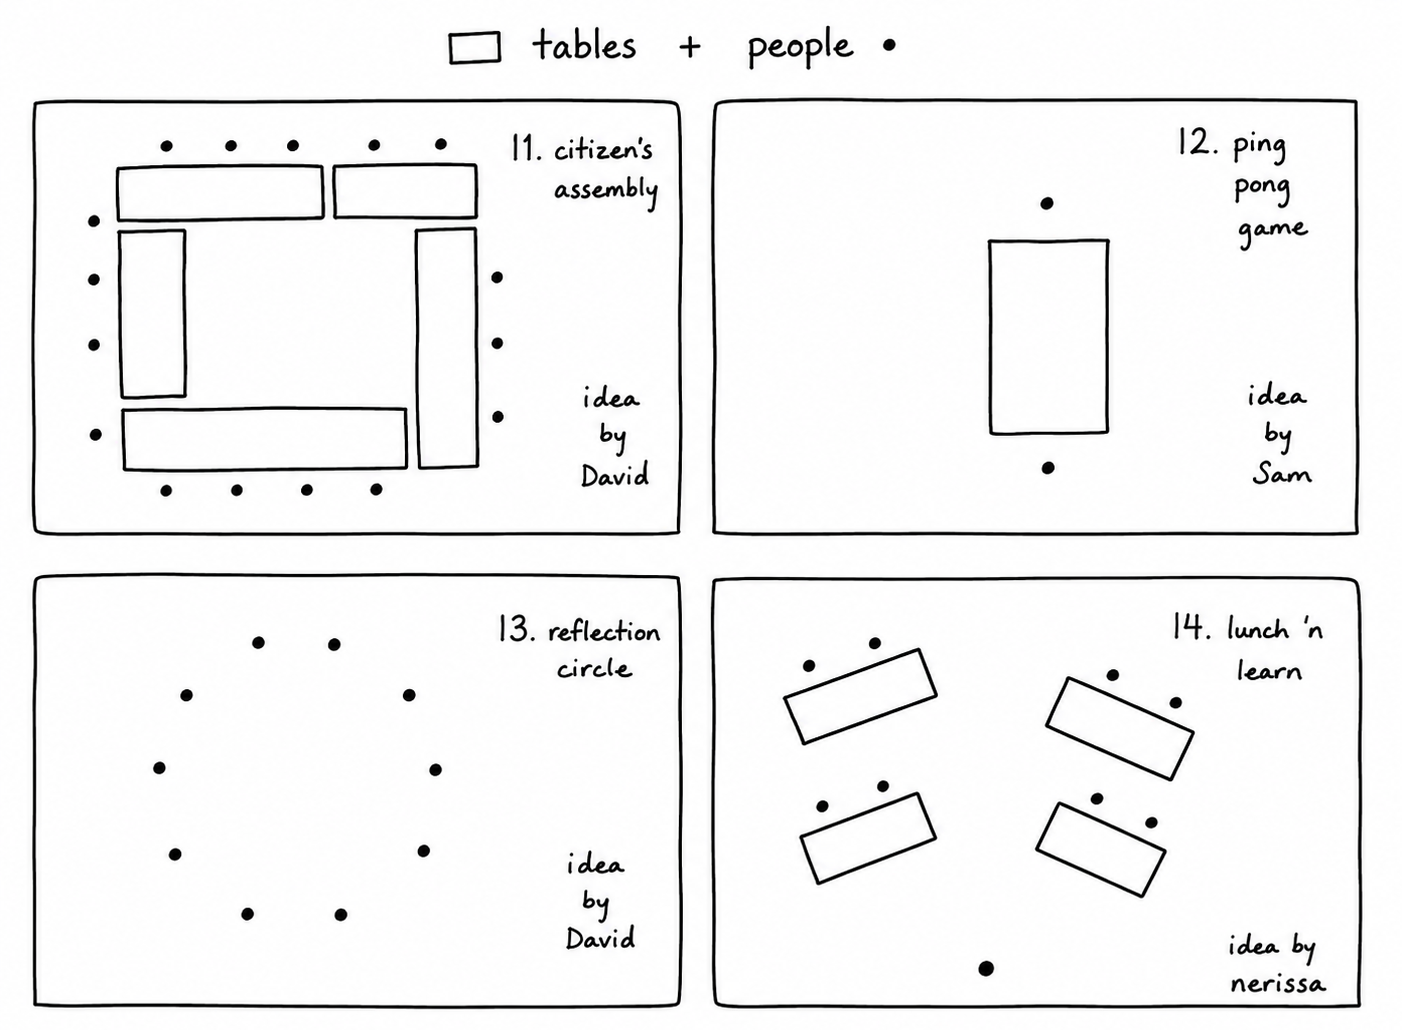
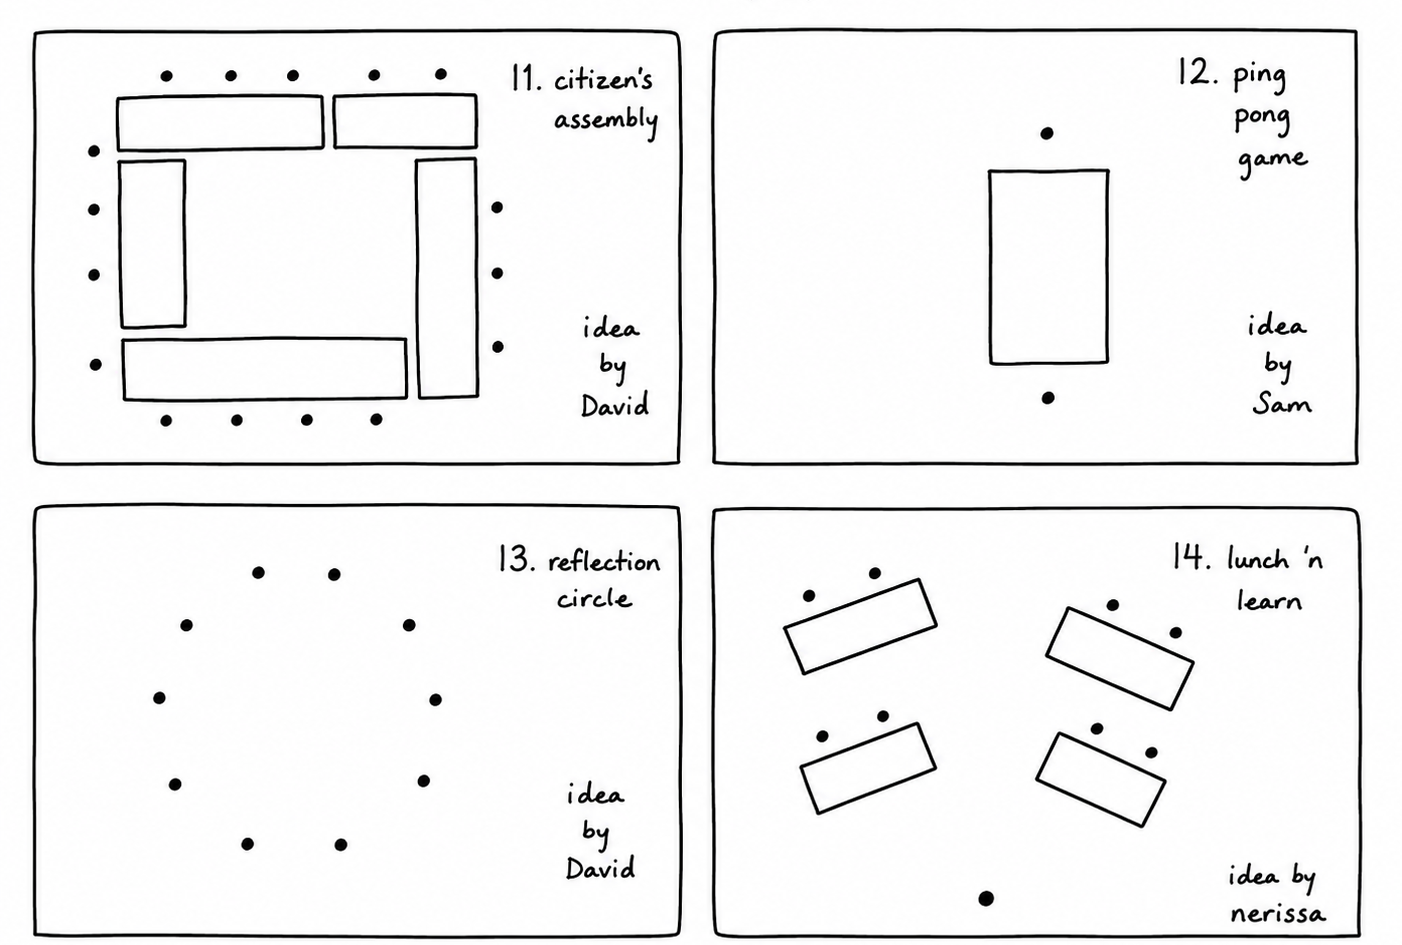
Make additions cards continuous with the main grid
Trim the legend header off additions.png and remove the inter-graphic
margin so cards 11–14 read as a continuation of the original grid
rather than a separate second graphic.

diff --git a/index.html b/index.html
@@ -108,7 +108,7 @@
   }
 
   .graphic + .graphic {
-    margin-top: 1.25rem;
+    margin-top: 0;
   }
 
   .graphic img {
@@ -412,14 +412,14 @@ const graphics = [
   },
   {
     key: 'additions',
-    // Card boundaries derived from border detection of additions.png (trimmed; tagline removed).
+    // additions.png is now cropped to just the cards (header + tagline removed).
     // Columns: left 2.35–48.57% (w 46.22), right 50.78–96.79% (w 46.01)
-    // Rows: 1 [9.61–51.84] (h 42.23), 2 [55.73–97.77] (h 42.04)
+    // Rows: 1 [3.07–49.10] (h 46.03), 2 [53.33–99.15] (h 45.82)
     cards: [
-      { id: 11, name: "citizen's assembly", idea: "David",   tables: 6, people: 22, top: 9.61,  left: 2.35,  width: 46.22, height: 42.23 },
-      { id: 12, name: "ping pong game",     idea: "Sam",     tables: 1, people: 2,  top: 9.61,  left: 50.78, width: 46.01, height: 42.23 },
-      { id: 13, name: "reflection circle",  idea: "David",   tables: 0, people: 12, top: 55.73, left: 2.35,  width: 46.22, height: 42.04 },
-      { id: 14, name: "lunch 'n learn",     idea: "Nerissa", tables: 3, people: 10, top: 55.73, left: 50.78, width: 46.01, height: 42.04 }
+      { id: 11, name: "citizen's assembly", idea: "David",   tables: 6, people: 22, top: 3.07,  left: 2.35,  width: 46.22, height: 46.03 },
+      { id: 12, name: "ping pong game",     idea: "Sam",     tables: 1, people: 2,  top: 3.07,  left: 50.78, width: 46.01, height: 46.03 },
+      { id: 13, name: "reflection circle",  idea: "David",   tables: 0, people: 12, top: 53.33, left: 2.35,  width: 46.22, height: 45.82 },
+      { id: 14, name: "lunch 'n learn",     idea: "Nerissa", tables: 3, people: 10, top: 53.33, left: 50.78, width: 46.01, height: 45.82 }
     ]
   }
 ];